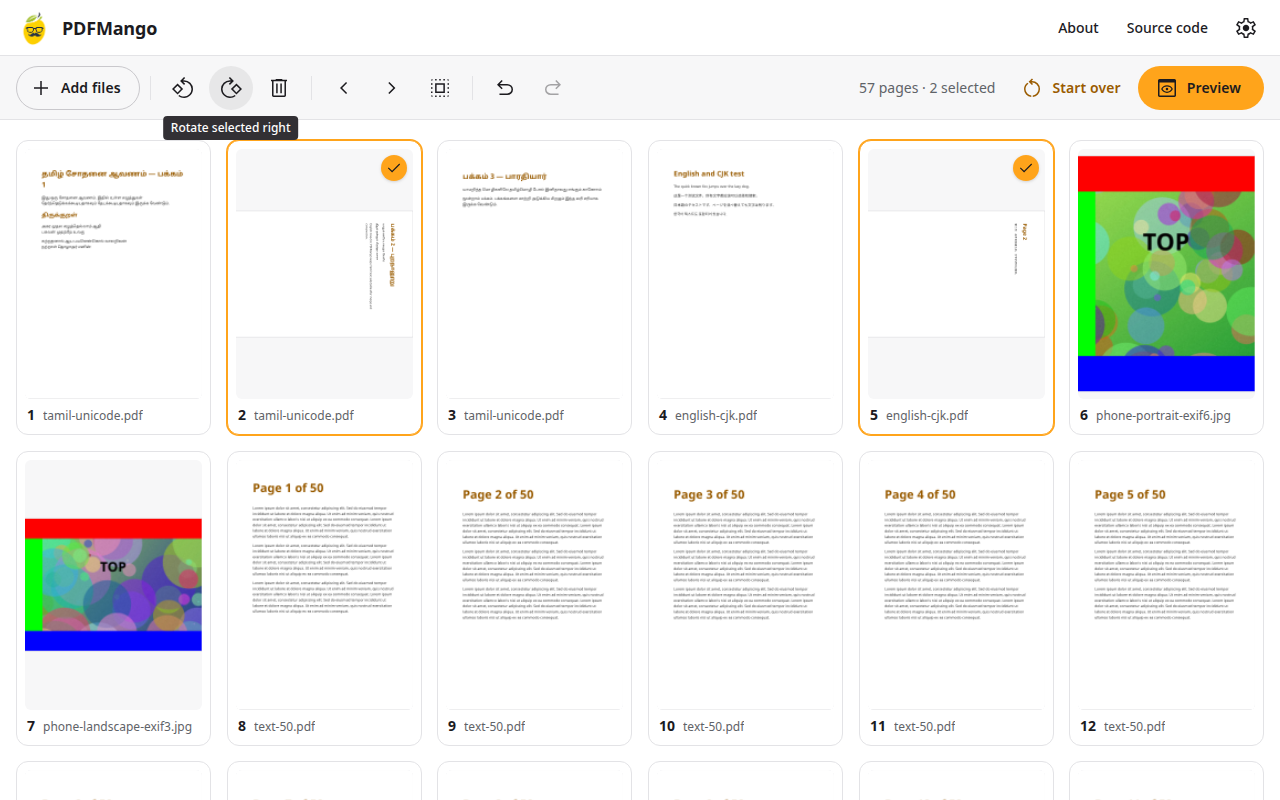
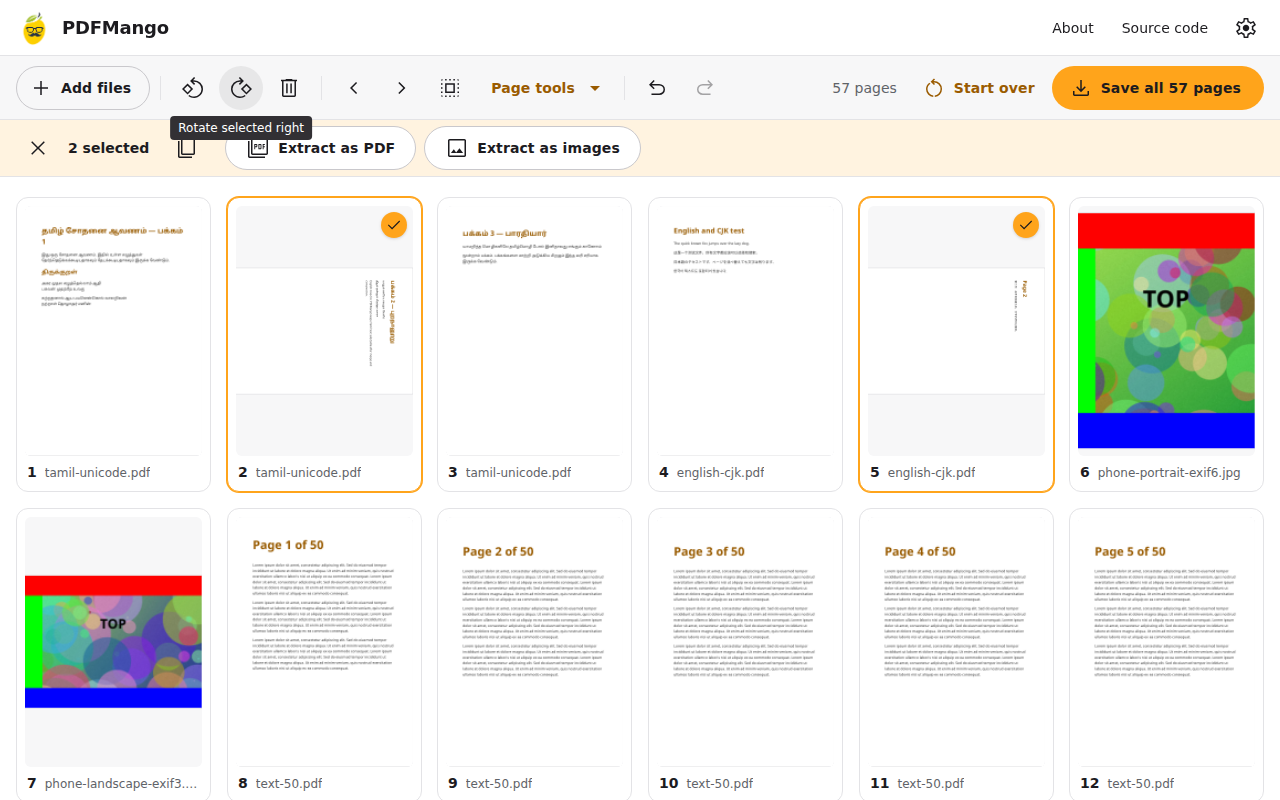
Screenshots: refreshed for 0.4.0, plus the page tools on desktop and phone
make-screenshots.mjs now also takes Straighten, Split book spreads (with a Check split badge),
Straighten photo (suggested corners) and Crop (Auto), from test files only. README shows them
in a Page tools table.

diff --git a/README.md b/README.md
@@ -53,7 +53,16 @@ A free, open-source PDF tool that runs entirely in your browser. Merge and rearr
 | ![Page grid on desktop](docs/screenshots/desktop-grid.png) | ![Page grid on a phone](docs/screenshots/phone-grid.png) |
 | ![Download options on desktop](docs/screenshots/desktop-download.png) | ![Download options on a phone](docs/screenshots/phone-download.png) |
 
-Made with the test files in `tests/fixtures/`.
+**Page tools**
+
+| Desktop | Phone |
+| --- | --- |
+| ![Straighten: a tilted scan turned level, with Crop, Split, Straighten and Fine rotate under the page](docs/screenshots/desktop-straighten.png) | ![Straighten on a phone](docs/screenshots/phone-straighten.png) |
+| ![Split book spreads: a scanned book split into pages, one spread marked Check split](docs/screenshots/desktop-split.png) | ![Split book spreads on a phone](docs/screenshots/phone-split.png) |
+| ![Straighten photo: the four corners placed on the edges of a photographed sheet](docs/screenshots/desktop-straighten-photo.png) | ![Straighten photo on a phone](docs/screenshots/phone-straighten-photo.png) |
+| ![Crop: Auto places the box round the paper of a photographed book](docs/screenshots/desktop-crop.png) | ![Crop on a phone](docs/screenshots/phone-crop.png) |
+
+Made with the test files in `tests/fixtures/` (`npm run build && npm run screenshots`).
 
 ## Privacy and analytics
 
